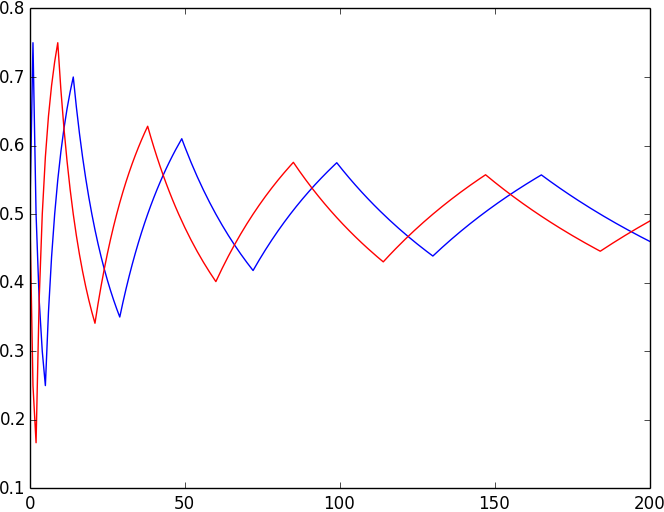
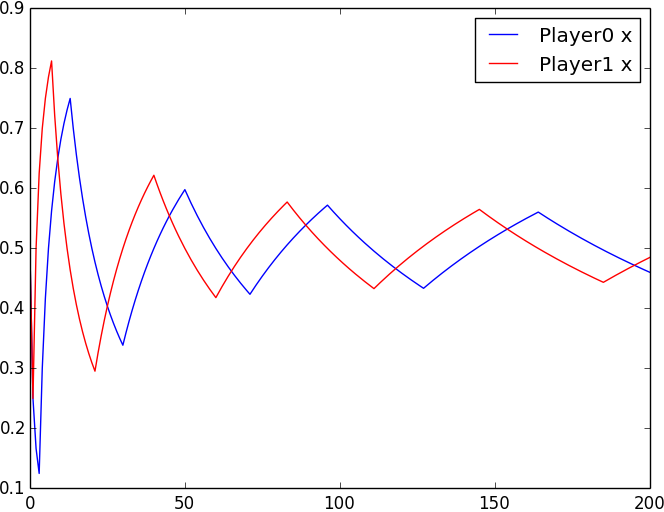
legend and title added

diff --git a/Ficplay.py b/Ficplay.py
@@ -1,3 +1,6 @@
+##########
+##Plot the list of x0 and x1
+
 import matplotlib.pyplot as plt
 import random as random
 from __future__ import division
@@ -63,9 +66,10 @@ for i in range(trials):
 
 
 xaxis = range(trials)
-ax.plot(xaxis, x0_values, 'b-')
-ax.plot(xaxis, x1_values, 'r-')
-xaxis = range(trials)
+ax.plot(xaxis, x0_values, 'b-',label = 'Player0 x')
+ax.plot(xaxis, x1_values, 'r-',label = 'Player1 x')
+ax.legend()
+
 plt.savefig('Matpenny' + str(trials-1) + '.png',transparent=True, bbox_inches='tight', pad_inches=0)
 plt.close()
 
@@ -95,8 +99,10 @@ for j in range(iter + 1):
 
 # plot the list in histogram
 n, bins, patches = plt.hist(terminalx0, 15, normed = 1)
-plt.setp(patches, 'facecolor', 'g')
 
+plt.title('ts = '+ str(trials - 1)+ ','+' N = '+ str(iter), color='k')
+
+plt.setp(patches, 'facecolor', 'g')
 plt.savefig('Matpenny_hist' + str(trials-1) +'_'+ str(iter) +'.png',transparent=True, bbox_inches='tight', pad_inches=0)
 plt.show()
 
